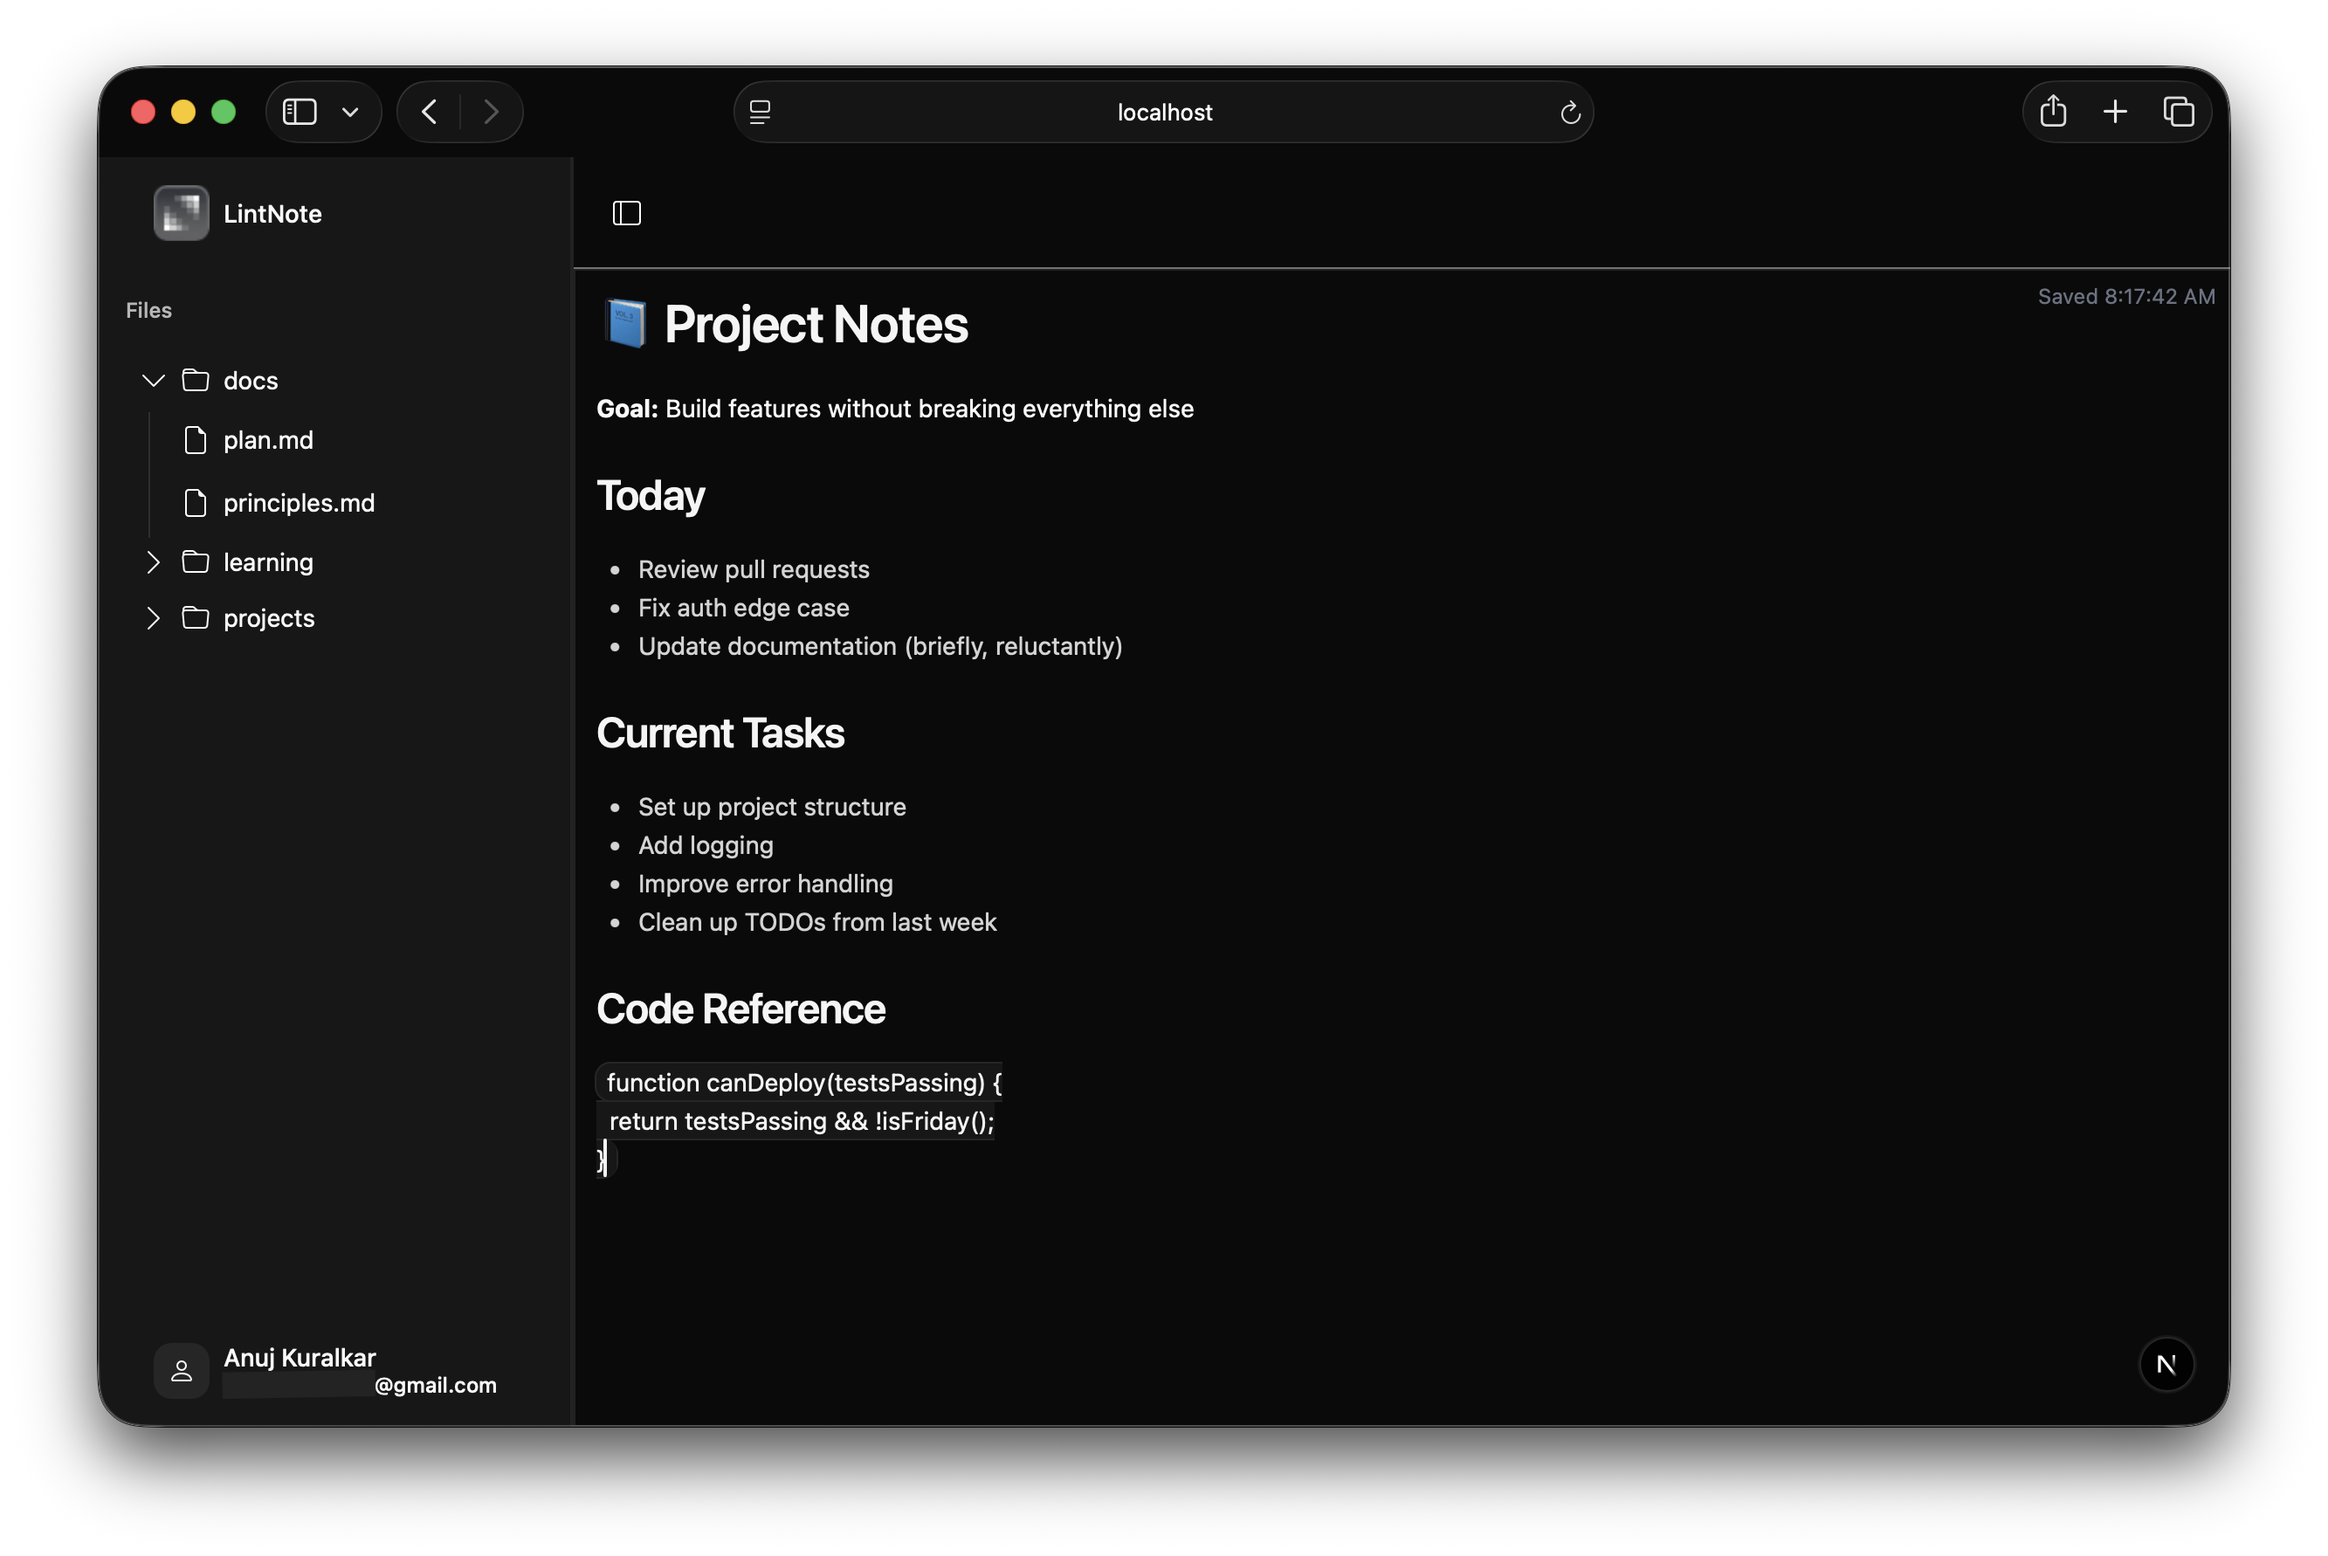
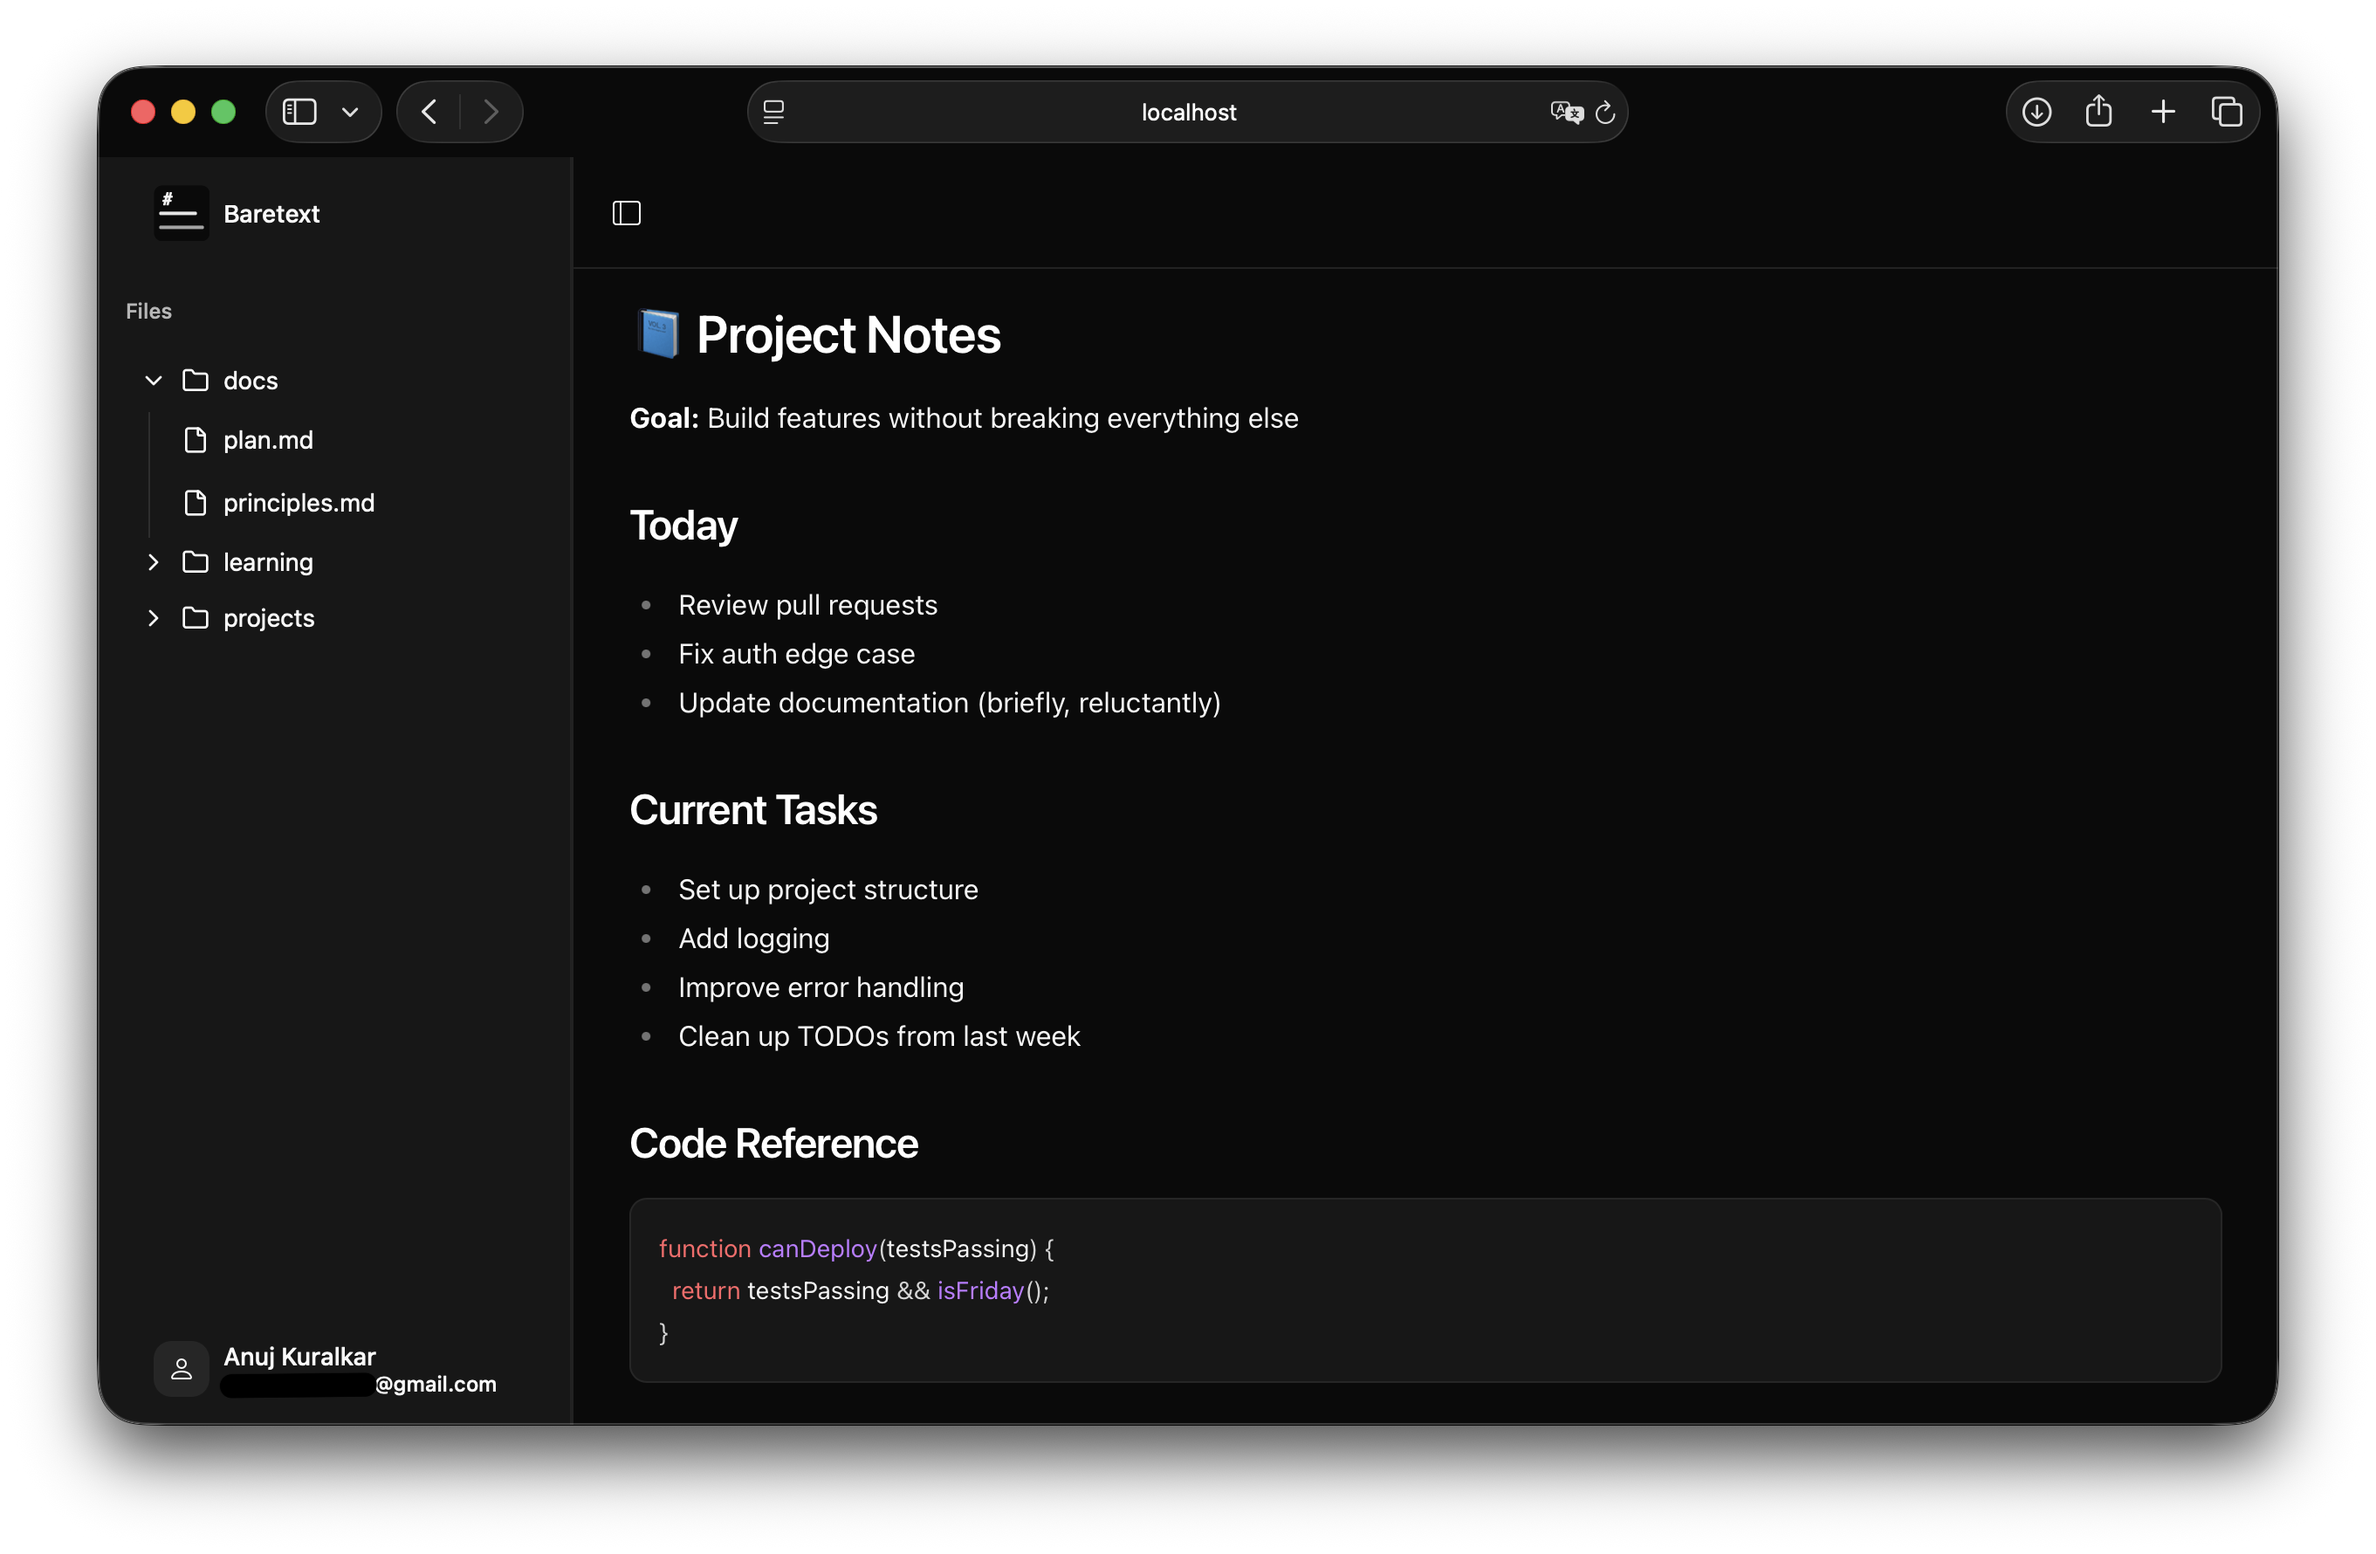
chore: rename project to Baretext

diff --git a/src/components/app-sidebar.tsx b/src/components/app-sidebar.tsx
@@ -25,9 +25,9 @@ export async function AppSidebar() {
       <SidebarHeader>
         <Button asChild className="w-full h-12" size="lg" variant="ghost">
           <Link className="flex items-center gap-2" href="/">
-            <Image alt="LintNote" height={32} src="/lintnote.svg" width={32} />
+            <Image alt="Baretext" height={32} src="/baretext.svg" width={32} />
             <div className="grid flex-1 text-left text-sm leading-tight">
-              <span className="truncate font-medium">LintNote</span>
+              <span className="truncate font-medium">Baretext</span>
             </div>
           </Link>
         </Button>

diff --git a/src/components/header.tsx b/src/components/header.tsx
@@ -14,8 +14,8 @@ export async function Header({ user }: { user: User | null }) {
     <header className="flex h-16 shrink-0 items-center gap-2 border-b px-4">
       <Link href="/">
         <div className="flex items-center gap-2">
-          <Image alt="LintNote" height={32} src="/lintnote.svg" width={32} />
-          <span className="text-lg font-semibold">LintNote</span>
+          <Image alt="Baretext" height={32} src="/baretext.svg" width={32} />
+          <span className="text-lg font-semibold">Baretext</span>
         </div>
       </Link>
       <nav className="ml-auto">

diff --git a/src/app/auth/login/page.tsx b/src/app/auth/login/page.tsx
@@ -8,9 +8,9 @@ export default function LoginPage() {
       <div className="flex w-full max-w-sm flex-col gap-6">
         <a className="flex items-center gap-2 self-center font-medium" href="/">
           <div className="bg-primary text-primary-foreground flex size-6 items-center justify-center rounded-md">
-            <Image alt="LintNote" height={32} src="/lintnote.svg" width={32} />
+            <Image alt="Baretext" height={32} src="/baretext.svg" width={32} />
           </div>
-          LintNote
+          Baretext
         </a>
         <LoginForm />
       </div>

diff --git a/src/app/layout.tsx b/src/app/layout.tsx
@@ -6,7 +6,7 @@ import { AppToaster } from "@/components/ui/toast";
 import { EditorStoreProvider } from "@/providers/editor-store";
 
 export const metadata: Metadata = {
-  title: "LintNote - Simple and Fast Markdown Notes",
+  title: "Baretext - Simple and Fast Markdown Notes",
   description:
     "A fast, lightweight, and user-friendly Markdown note-taking app. Easily organize your ideas, tasks, and notes using clean, readable Markdown syntax.",
 };

diff --git a/README.md b/README.md
@@ -1,3 +1,3 @@
-# LintNote
+# Baretext
 
-**LintNote** is a simple, fast, and lightweight Markdown note-taking app. Organize your thoughts, tasks, and ideas using clean Markdown syntax.
+**Baretext** is a simple, fast, and lightweight Markdown note-taking app. Organize your thoughts, tasks, and ideas using clean Markdown syntax.

diff --git a/CHANGELOG.md b/CHANGELOG.md
@@ -1,4 +1,4 @@
-# lintnote
+# Baretext
 
 ## 0.5.0
 
